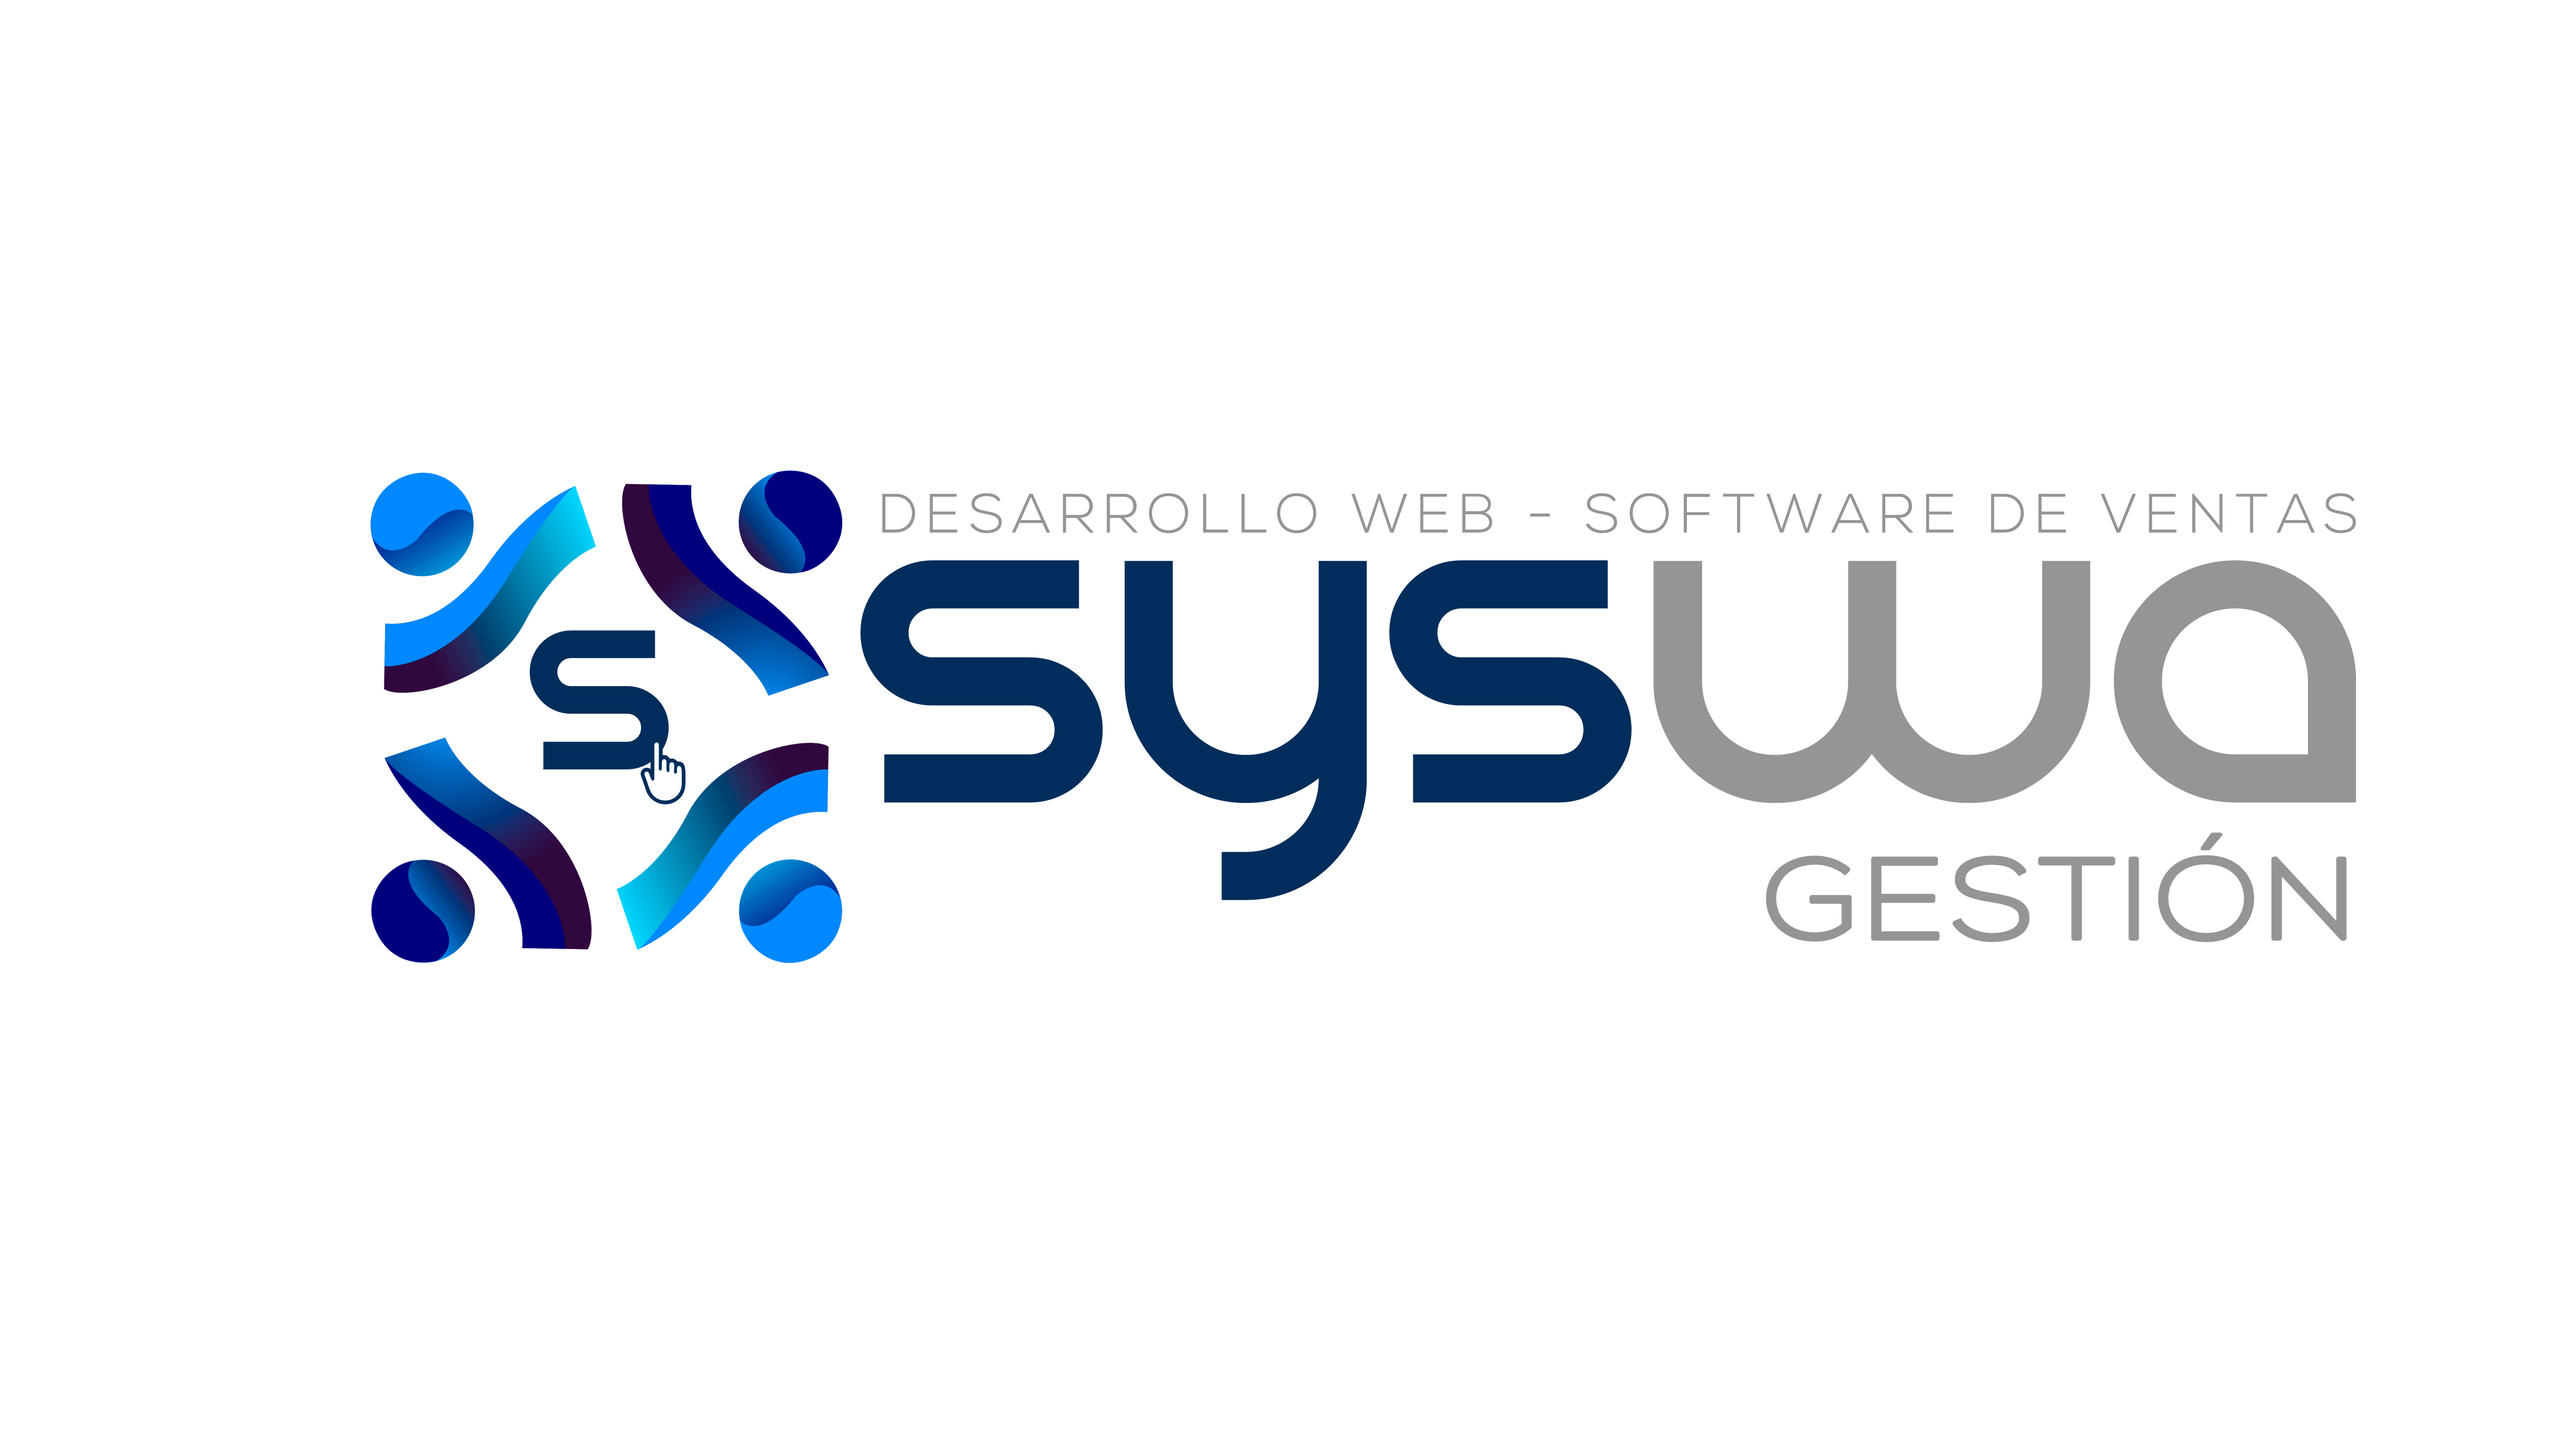
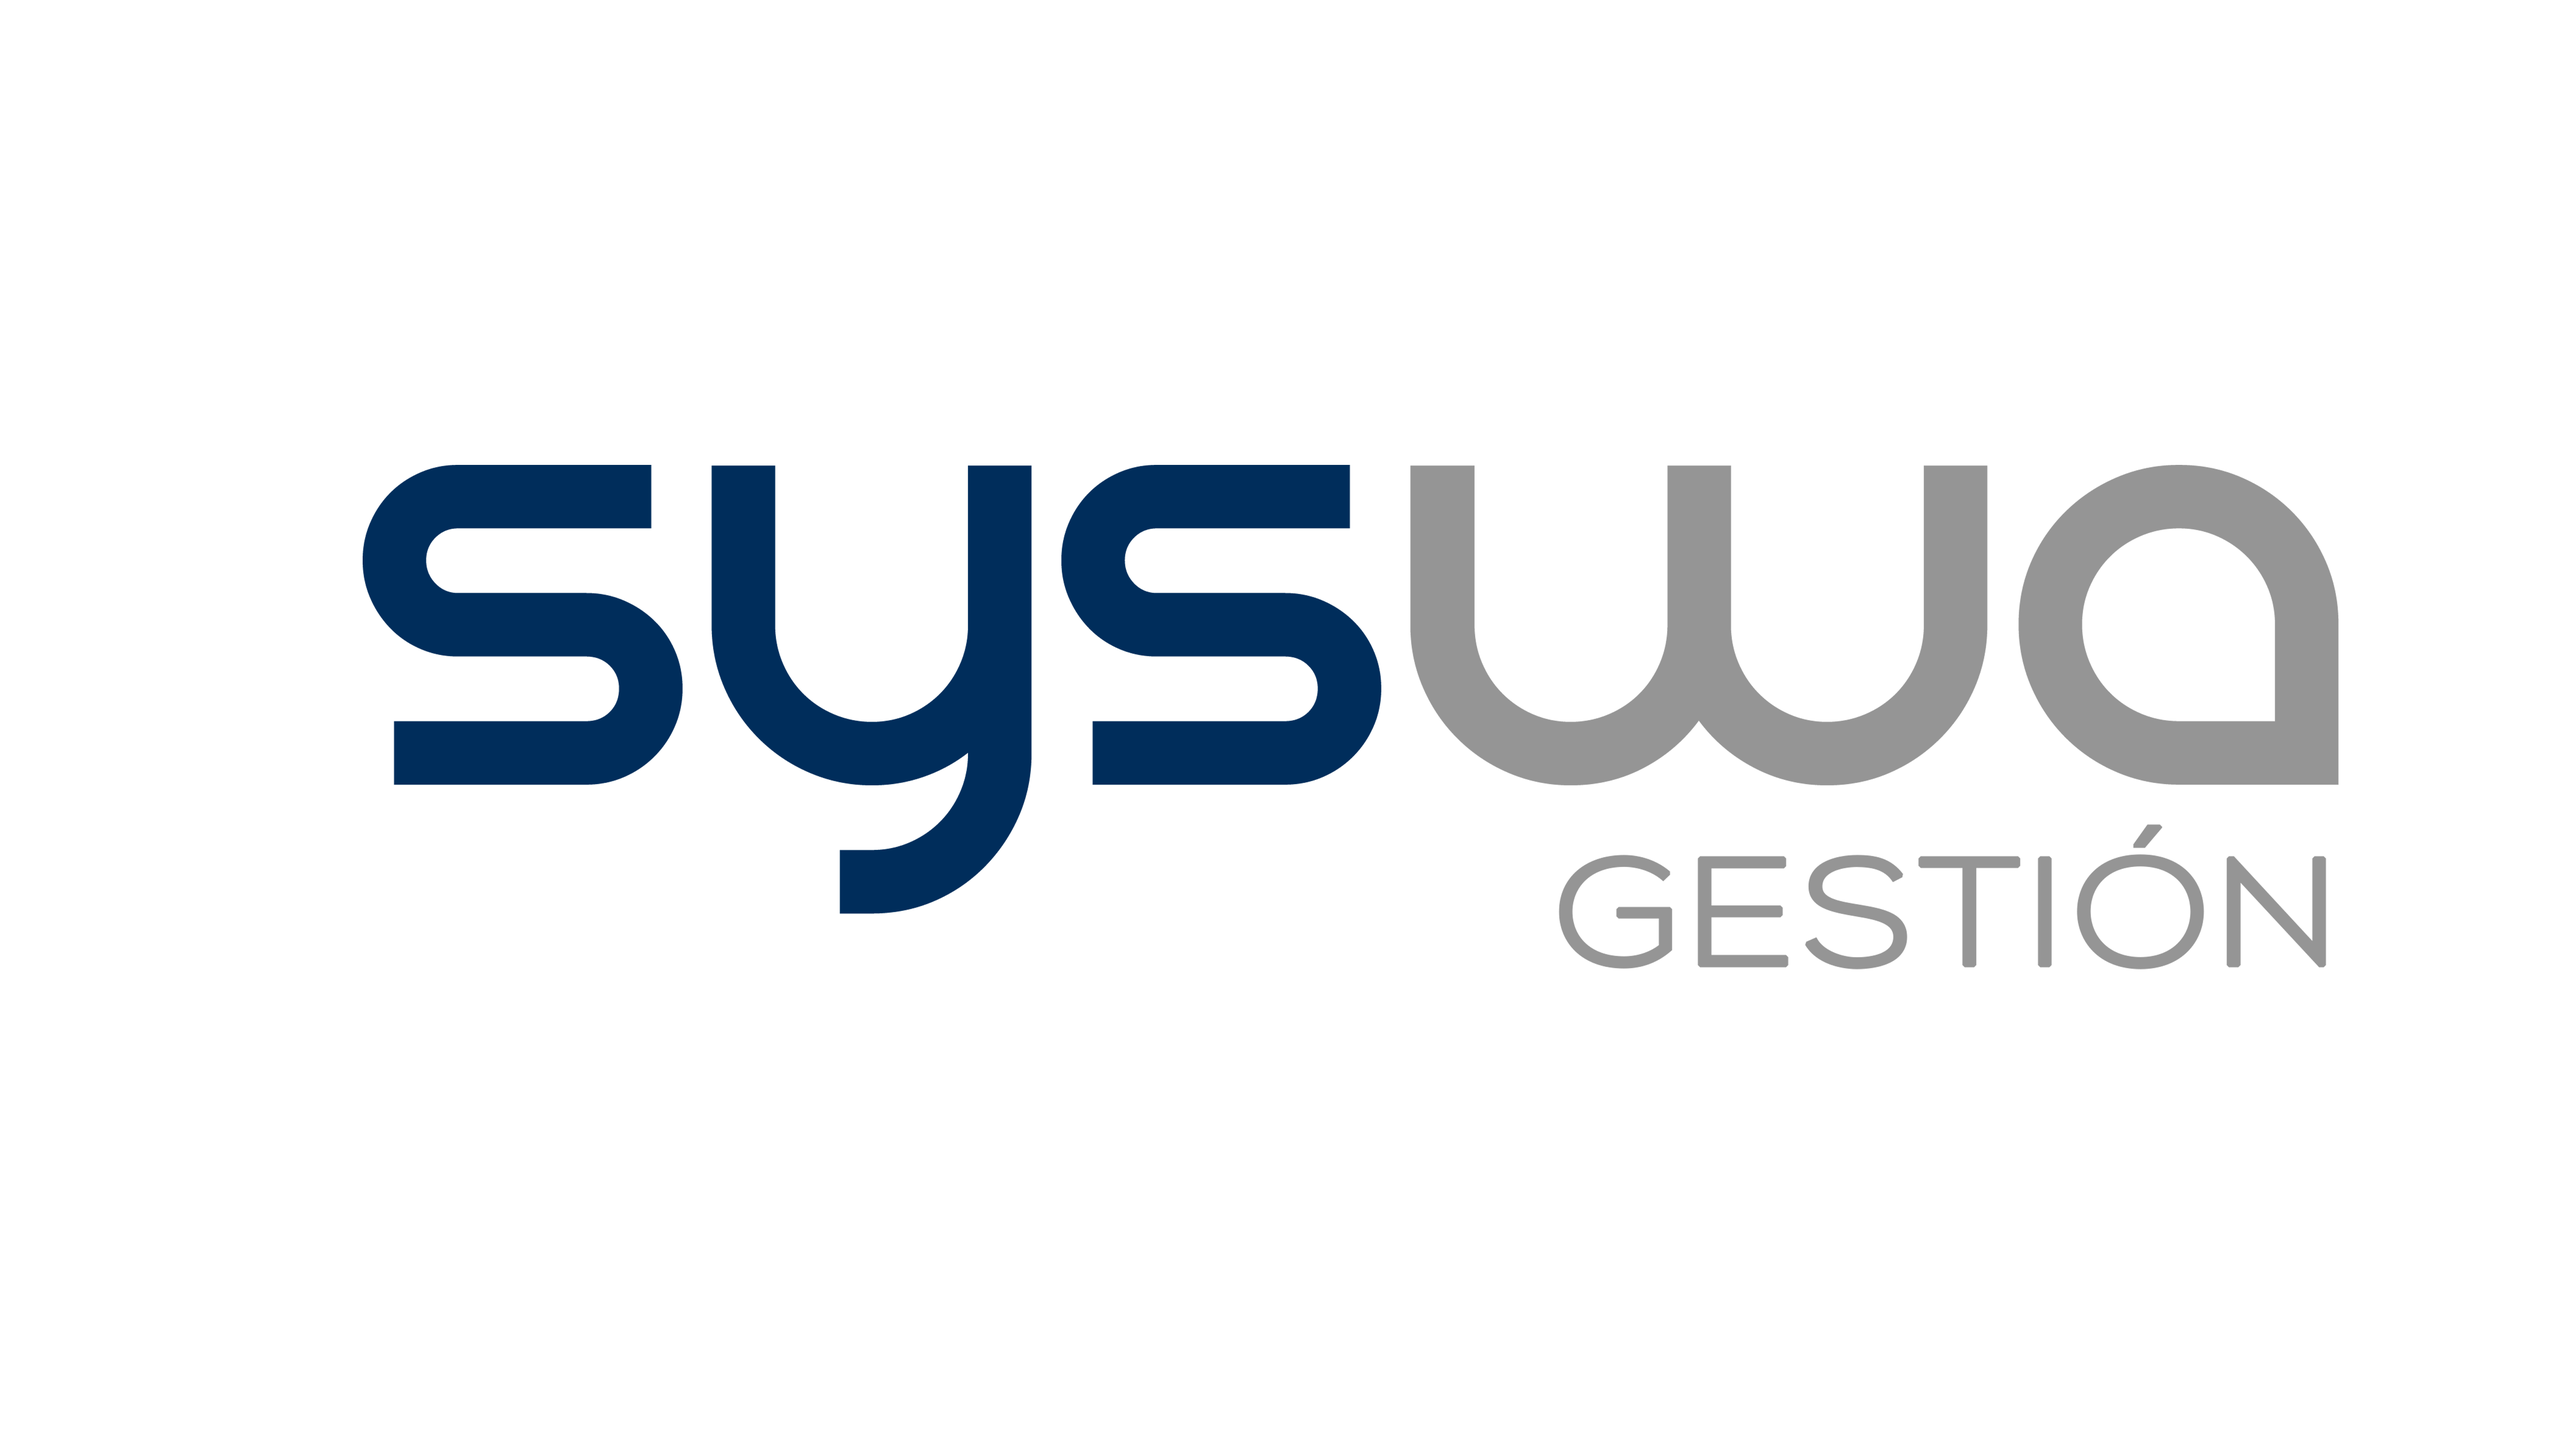
Hours dates

Changed region(s): [[0.1247, 0.3117, 0.935, 0.6858]]

diff --git a/src/views/AgendamientoCliente.vue b/src/views/AgendamientoCliente.vue
@@ -119,6 +119,7 @@
                                                 v-model="dates.simple">
                                         </flat-picker>
                                     </base-input>
+                                    
                                 </div>
                             </div>
                             <div class="col-md-8">
@@ -492,10 +493,18 @@
             return {
                 socket: io(endPoint.endpointTarget),
                 configDate: {
+                    inline:false,
                     allowInput: false,
                     dateFormat: 'd-m-Y',
                     locale: Spanish, // locale for this instance only
-                    minDate: new Date()        
+                    minDate: new Date(),
+                    "disable": [
+                        function(date) {
+                            // return true to disable
+                            return (date.getDay() === 0 );
+
+                        }
+                    ]        
                 },
                 validPay:false,
                 progress:false,
@@ -577,6 +586,7 @@
             this.getLenders()
             this.getServices()
             this.getCategories()
+            this.device()
         },
         methods: {
             handleFileUpload(){
@@ -1369,12 +1379,15 @@
                 
             },
             openCalendar(){
+                console.log("hola vale")
+                console.log(this.dates.simple)
+                
                 setTimeout(() => {
                     const split = this.dates.simple.split('-')
                     this.finalDate = split[1]+'-'+split[0]+'-'+split[2]
                     const restDay = new Date(this.finalDate+' 10:00')
                     this.getDay = restDay.getDay()
-                    if (this.getDay == 0 || this.getDay == 6) {
+                    if (this.getDay == 0) {
                         this.modals = {
                             modal3: true,
                             message: "Disculpa, No laboramos Sábados y Domingos.",
@@ -1392,6 +1405,7 @@
                                 icon: '',
                                 type: ''
                             }
+                            this.dates.simple = ''
                         }, 3000);
                     }else{
                         if (this.readyChange) {
@@ -1588,6 +1602,11 @@
                     return false
                 }else{
                     return true
+                }
+            },
+            device(){
+                if (screen.width < 768) {
+                    this.configDate.inline = true
                 }
             },
             async selectServicePhone(id){

diff --git a/src/components/SidebarPlugin/SideBar.vue b/src/components/SidebarPlugin/SideBar.vue
@@ -7,7 +7,8 @@
                 <span class="navbar-toggler-icon"></span>
             </navbar-toggle-button>
             
-            <img style="width:110px;height:60px;margin-left:10px;margin-top:-10px;" :src="logo" alt="...">
+            <img v-if="screen < 768" style="width:13%" :src="logo" alt="...">
+            <img v-else style="width: 155%;margin-left: -52px;margin-top: -48px;margin-bottom: -20%;" :src="logoB" alt="...">
             
             <slot name="mobile-right">
                 <ul class="nav align-items-center d-md-none">
@@ -96,13 +97,19 @@
     data() {
       return {
         haveImage: localStorage.imageUser,
-        imgUser: endPoint.imgEndpoint + localStorage.imageUser
+        imgUser: endPoint.imgEndpoint + localStorage.imageUser,
+        screen: screen.width
       }
     },
     props: {
       logo: {
         type: String,
         default: 'img/brand/syswa-isotipo.png',
+        description: 'Sidebar app logo'
+      },
+      logoB: {
+        type: String,
+        default: 'img/brand/syswa-gestion.png',
         description: 'Sidebar app logo'
       },
       autoClose: {

diff --git a/config-endpoint/endpoint.js b/config-endpoint/endpoint.js
@@ -1,6 +1,6 @@
-const server = 'kkprettynailsback.syswa.net'
+const server = 'localhost'
 const portClient = '3389'
-const endpointTarget = `https://${server}`
+const endpointTarget = `http://${server}:4200`
 const imgEndpoint = `${endpointTarget}/static/users/`
 
 

diff --git a/src/assets/scss/argon.scss b/src/assets/scss/argon.scss
@@ -88,6 +88,9 @@
     .vuecal__event{
         font-size: 3vw !important;
     }
+    .flatpickr-calendar{
+        left:-40%
+    }
 }
 
 
